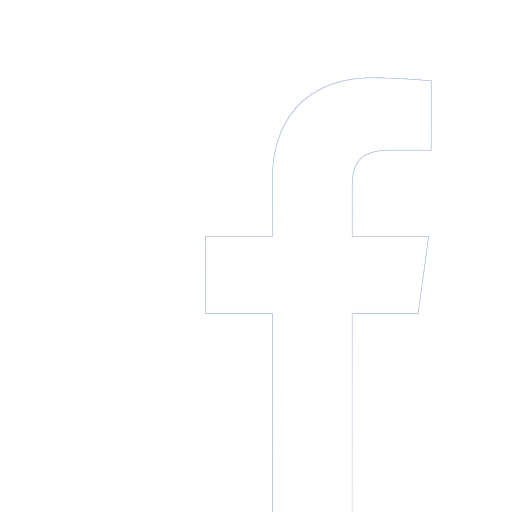
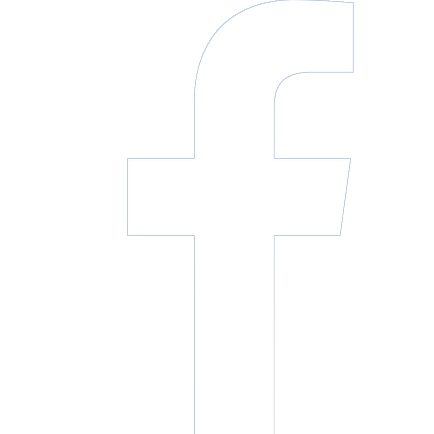
Picture and stuff?

diff --git a/index.html b/index.html
@@ -16,45 +16,15 @@
       <a href = "#" class="links"> SHOP </a>
       <a href= "#" class="links">ABOUT US</a>
       <a href = "#" class="links"> CONTACT </a>
+      <div class="sm">  <a href="instagram.com"> <img class="insta" src="instagram.png"> </a>
+      <img class="fb" src="facebook.png"> </div>
     </div>
   </div>
-    <div> <img class= "background" src="pic2.jpg"> </div>
-    <div id="textdiv">
-    Lorem Ipsum: usage
+  <div><img class ="background" src ="pic2.jpg"></div>
+  <div>
+      <img class= "instafeed" src="insta1.png">
+    </div>
 
-diagonal layout based on Lorem IpsumLorem ipsum is a pseudo-Latin text used in web design, typography, layout, and printing in place of English to emphasise design elements over content. It's also called placeholder (or filler) text. It's a convenient tool for mock-ups. It helps to outline the visual elements of a document or presentation, eg typography, font, or layout. Lorem ipsum is mostly a part of a Latin text by the classical author and philosopher Cicero. Its words and letters have been changed by addition or removal, so to deliberately render its content nonsensical; it's not genuine, correct, or comprehensible Latin anymore. While lorem ipsum's still resembles classical Latin, it actually has no meaning whatsoever. As Cicero's text doesn't contain the letters K, W, or Z, alien to latin, these, and others are often inserted randomly to mimic the typographic appearence of European languages, as are digraphs not to be found in the original.
-
-In a professional context it often happens that private or corporate clients corder a publication to be made and presented with the actual content still not being ready. Think of a news blog that's filled with content hourly on the day of going live. However, reviewers tend to be distracted by comprehensible content, say, a random text copied from a newspaper or the internet. The are likely to focus on the text, disregarding the layout and its elements. Besides, random text risks to be unintendedly humorous or offensive, an unacceptable risk in corporate environments. Lorem ipsum and its many variants have been employed since the early 1960ies, and quite likely since the sixteenth century.
-
-Lorem Ipsum: common examples
-
-layout based on Lorem Ipsum Most of its text is made up from sections 1.10.32–3 of Cicero's De finibus bonorum et malorum (On the Boundaries of Goods and Evils; finibus may also be translated as purposes). Neque porro quisquam est qui dolorem ipsum quia dolor sit amet, consectetur, adipisci velit is the first known version ("Neither is there anyone who loves grief itself since it is grief and thus wants to obtain it"). It was found by Richard McClintock, a philologist, director of publications at Hampden-Sydney College in Virginia; he searched for citings of consectetur in classical Latin literature, a term of remarkably low frequency in that literary corpus.
-
-Cicero famously orated against his political opponent Lucius Sergius Catilina. Occasionally the first Oration against Catiline is taken for type specimens: Quo usque tandem abutere, Catilina, patientia nostra? Quam diu etiam furor iste tuus nos eludet? (How long, O Catiline, will you abuse our patience? And for how long will that madness of yours mock us?)
-
-Cicero's version of Liber Primus (first Book), sections 1.10.32–3 (fragments included in most Lorem Ipsum variants in red):
-
-Cicero writing letters; from an early edition by Hieronymus Scotus Sed ut perspiciatis, unde omnis iste natus error sit voluptatem accusantium doloremque laudantium, totam rem aperiam eaque ipsa, quae ab illo inventore veritatis et quasi architecto beatae vitae dicta sunt, explicabo. Nemo enim ipsam voluptatem, quia voluptas sit, aspernatur aut odit aut fugit, sed quia consequuntur magni dolores eos, qui ratione voluptatem sequi nesciunt, neque porro quisquam est, qui dolorem ipsum, quia dolor sit amet, consectetur, adipisci[ng] velit, sed quia non numquam [do] eius modi tempora inci[di]dunt, ut labore et dolore magnam aliquam quaerat voluptatem. Ut enim ad minima veniam, quis nostrum exercitationem ullam corporis suscipit laboriosam, nisi ut aliquid ex ea commodi consequatur? Quis autem vel eum iure reprehenderit, qui in ea voluptate velit esse, quam nihil molestiae consequatur, vel illum, qui dolorem eum fugiat, quo voluptas nulla pariatur?
-
-Lorem Ipsum: translation
-
-The Latin scholar H. Rackham translated the above in 1914:
-
-De Finibus Bonorum Et Malorum But I must explain to you how all this mistaken idea of denouncing pleasure and praising pain was born and I will give you a complete account of the system, and expound the actual teachings of the great explorer of the truth, the master-builder of human happiness. No one rejects, dislikes, or avoids pleasure itself, because it is pleasure, but because those who do not know how to pursue pleasure rationally encounter consequences that are extremely painful. Nor again is there anyone who loves or pursues or desires to obtain pain of itself, because it is pain, but occasionally circumstances occur in which toil and pain can procure him some great pleasure. To take a trivial example, which of us ever undertakes laborious physical exercise, except to obtain some advantage from it? But who has any right to find fault with a man who chooses to enjoy a pleasure that has no annoying consequences, or one who avoids a pain that produces no resultant pleasure?
-
-On the other hand, we denounce with righteous indignation and dislike men who are so beguiled and demoralized by the charms of pleasure of the moment, so blinded by desire, that they cannot foresee the pain and trouble that are bound to ensue; and equal blame belongs to those who fail in their duty through weakness of will, which is the same as saying through shrinking from toil and pain. These cases are perfectly simple and easy to distinguish. In a free hour, when our power of choice is untrammelled and when nothing prevents our being able to do what we like best, every pleasure is to be welcomed and every pain avoided. But in certain circumstances and owing to the claims of duty or the obligations of business it will frequently occur that pleasures have to be repudiated and annoyances accepted. The wise man therefore always holds in these matters to this principle of selection: he rejects pleasures to secure other greater pleasures, or else he endures pains to avoid worse pains.
-
-Lorem Ipsum: variants and technical information
-
-Adobe Fireworks Lorem Ipsum plugin In 1985 Aldus Corporation launched its first desktop publishing program Aldus PageMaker for Apple Macintosh computers, released in 1987 for PCs running Windows 1.0. Both contained the variant lorem ipsum most common today. Laura Perry, then art director with Aldus, modified prior versions of Lorem Ipsum text from typographical specimens; in the 1960s and 1970s it appeared often in lettering catalogs by Letraset. Anecdotal evidence has it that Letraset used Lorem ipsum already from 1970 onwards, eg. for grids (page layouts) for ad agencies. Many early desktop publishing programs, eg. Adobe PageMaker, used it to create template.
-
-Most text editors like MS Word or Lotus Notes generate random lorem text when needed, either as pre-installed module or plug-in to be added. Word selection or sequence don't necessarily match the original, which is intended to add variety. Presentation software like Keynote or Pages use it as a samples for screenplay layout. Content management software as Joomla, Drupal, Mambo, PHP-Nuke, WordPress, or Movable Type offer Lorem Ipsum plug-ins with the same functionality.
-
-ipsum and its many variants have been employed since the early 1960ies, and quite likely since the sixteenth century. Lorem Ipsum: common examples layout based on Lorem Ipsum Most of its text is made up from sections 1.10.32–3 of Cicero's De finibus bonorum et malorum (On the Boundaries of Goods and Evils; finibus may also be translated as purposes). Neque porro quisquam est qui dolorem ipsum quia dolor sit amet, consectetur, adipisci velit is the first known version ("Neither is there anyone who loves grief itself since it is grief and thus wants to obtain it"). It was found by Richard McClintock, a philologist, director of publications at Hampden-Sydney College in Virginia; he searched for citings of consectetur in classical Latin literature, a term of remarkably low frequency in that literary corpus. Cicero famously orated against his political opponent Lucius Sergius Catilina. Occasionally the first Oration against Catiline is taken for type specimens: Quo usque tandem abutere, Catilina, patientia nostra? Quam diu etiam furor iste tuus nos eludet? (How long, O Catiline, will you abuse our patience? And for how long will that madness of yours mock us?) Cicero's version of Liber Primus (first Book), sections 1.10.32–3 (fragments included in most Lorem Ipsum variants in red): Cicero writing letters; from an early edition by Hieronymus Scotus Sed ut perspiciatis, unde omnis iste natus error sit voluptatem accusantium doloremque laudantium, totam rem aperiam eaque ipsa, quae ab illo inventore veritatis et quasi architecto beatae vitae dicta sunt, explicabo. Nemo enim ipsam voluptatem, quia voluptas sit, aspernatur aut odit aut fugit, sed quia consequuntur magni dolores eos, qui ratione voluptatem sequi nesciunt, neque porro quisquam est, qui dolorem ipsum, quia dolor sit amet, consectetur, adipisci[ng] velit, sed quia non numquam [do] eius modi tempora inci[di]dunt, ut labore et dolore magnam aliquam quaerat voluptatem. Ut enim ad minima veniam, quis nostrum exercitationem ullam corporis suscipit laboriosam, nisi ut aliquid ex ea commodi consequatur? Quis autem vel eum iure reprehenderit, qui in ea voluptate velit esse, quam nihil molestiae consequatur, vel illum, qui dolorem eum fugiat, quo voluptas nulla pariatur? Lorem Ipsum: translation The Latin scholar H. Rackham translated the above in 1914: De Finibus Bonorum Et Malorum But I must explain to you how all this mistaken idea of denouncing pleasure and praising pain was born and I will give you a complete account of the system, and expound the actual teachings of the great explorer of the truth, the master-builder of human happiness. No one rejects, dislikes, or avoids pleasure itself, because it is pleasure, but because those who do not know how to pursue pleasure rationally encounter consequences that are extremely painful. Nor again is there anyone who loves or pursues or desires to obtain pain of itself, because it is pain, but occasionally circumstances occur in which toil and pain can procure him some great pleasure. To take a trivial example, which of us ever undertakes laborious physical exercise, except to obtain some advantage from it? But who has any right to find fault with a man who chooses to enjoy a pleasure that has no annoying consequences, or one who avoids a pain that produces no resultant pleasure? On the other hand, we denounce with righteous indignation and dislike men who are so beguiled and demoralized by the charms of pleasure of the moment, so blinded by desire, that they cannot foresee the pain and trouble that are bound to ensue; and equal blame belongs to those who fail in their duty through weakness of will, which is the same as saying through shrinking from toil and pain. These cases are perfectly simple and easy to distinguish. In a free hour, when our power of choice is untrammelled and when nothing prevents our being able to do what we like best, every pleasure is to be welcomed and every pain avoided. But in certain circumstances and owing to the claims of duty or the obligations of business it will frequently occur that pleasures have to be repudiated and annoyances accepted. The wise man therefore always holds in these matters to this principle of selection: he rejects pleasures to secure other greater pleasures, or else he endures pains to avoid worse pains. Lorem Ipsum: variants and technical information Adobe Fireworks Lorem Ipsum plugin In 1985 Aldus Corporation launched its first desktop publishing program Aldus PageMaker for Apple Macintosh computers, released in 1987 for PCs running Windows 1.0. Both contained the variant lorem ipsum most common today. Laura Perry, then art director with Aldus, modified prior versions of Lorem Ipsum text from typographical specimens; in the 1960s and 1970s it appeared often in lettering catalogs by Letraset. Anecdotal evidence has it that Letraset used Lorem ipsum already from 1970 onwards, eg. for grids (page layouts) for ad agencies. Many early desktop publishing programs, eg. Adobe PageMaker, used it to create template. Most text editors like MS Word or Lotus Notes generate random lorem text when needed, either as pre-installed module or plug-in to be added. Word selection or sequence don't necessarily match the original, which is intended to add variety. Presentation software like Keynote or Pages use it as a samples for screenplay layout. Content management software as Joomla, Drupal, Mambo, PHP-Nuke, WordPress, or Movable Type offer Lorem Ipsum plug-ins with the same functionality.
-
-ipsum and its many variants have been employed since the early 1960ies, and quite likely since the sixteenth century. Lorem Ipsum: common examples layout based on Lorem Ipsum Most of its text is made up from sections 1.10.32–3 of Cicero's De finibus bonorum et malorum (On the Boundaries of Goods and Evils; finibus may also be translated as purposes). Neque porro quisquam est qui dolorem ipsum quia dolor sit amet, consectetur, adipisci velit is the first known version ("Neither is there anyone who loves grief itself since it is grief and thus wants to obtain it"). It was found by Richard McClintock, a philologist, director of publications at Hampden-Sydney College in Virginia; he searched for citings of consectetur in classical Latin literature, a term of remarkably low frequency in that literary corpus. Cicero famously orated against his political opponent Lucius Sergius Catilina. Occasionally the first Oration against Catiline is taken for type specimens: Quo usque tandem abutere, Catilina, patientia nostra? Quam diu etiam furor iste tuus nos eludet? (How long, O Catiline, will you abuse our patience? And for how long will that madness of yours mock us?) Cicero's version of Liber Primus (first Book), sections 1.10.32–3 (fragments included in most Lorem Ipsum variants in red): Cicero writing letters; from an early edition by Hieronymus Scotus Sed ut perspiciatis, unde omnis iste natus error sit voluptatem accusantium doloremque laudantium, totam rem aperiam eaque ipsa, quae ab illo inventore veritatis et quasi architecto beatae vitae dicta sunt, explicabo. Nemo enim ipsam voluptatem, quia voluptas sit, aspernatur aut odit aut fugit, sed quia consequuntur magni dolores eos, qui ratione voluptatem sequi nesciunt, neque porro quisquam est, qui dolorem ipsum, quia dolor sit amet, consectetur, adipisci[ng] velit, sed quia non numquam [do] eius modi tempora inci[di]dunt, ut labore et dolore magnam aliquam quaerat voluptatem. Ut enim ad minima veniam, quis nostrum exercitationem ullam corporis suscipit laboriosam, nisi ut aliquid ex ea commodi consequatur? Quis autem vel eum iure reprehenderit, qui in ea voluptate velit esse, quam nihil molestiae consequatur, vel illum, qui dolorem eum fugiat, quo voluptas nulla pariatur? Lorem Ipsum: translation The Latin scholar H. Rackham translated the above in 1914: De Finibus Bonorum Et Malorum But I must explain to you how all this mistaken idea of denouncing pleasure and praising pain was born and I will give you a complete account of the system, and expound the actual teachings of the great explorer of the truth, the master-builder of human happiness. No one rejects, dislikes, or avoids pleasure itself, because it is pleasure, but because those who do not know how to pursue pleasure rationally encounter consequences that are extremely painful. Nor again is there anyone who loves or pursues or desires to obtain pain of itself, because it is pain, but occasionally circumstances occur in which toil and pain can procure him some great pleasure. To take a trivial example, which of us ever undertakes laborious physical exercise, except to obtain some advantage from it? But who has any right to find fault with a man who chooses to enjoy a pleasure that has no annoying consequences, or one who avoids a pain that produces no resultant pleasure? On the other hand, we denounce with righteous indignation and dislike men who are so beguiled and demoralized by the charms of pleasure of the moment, so blinded by desire, that they cannot foresee the pain and trouble that are bound to ensue; and equal blame belongs to those who fail in their duty through weakness of will, which is the same as saying through shrinking from toil and pain. These cases are perfectly simple and easy to distinguish. In a free hour, when our power of choice is untrammelled and when nothing prevents our being able to do what we like best, every pleasure is to be welcomed and every pain avoided. But in certain circumstances and owing to the claims of duty or the obligations of business it will frequently occur that pleasures have to be repudiated and annoyances accepted. The wise man therefore always holds in these matters to this principle of selection: he rejects pleasures to secure other greater pleasures, or else he endures pains to avoid worse pains. Lorem Ipsum: variants and technical information Adobe Fireworks Lorem Ipsum plugin In 1985 Aldus Corporation launched its first desktop publishing program Aldus PageMaker for Apple Macintosh computers, released in 1987 for PCs running Windows 1.0. Both contained the variant lorem ipsum most common today. Laura Perry, then art director with Aldus, modified prior versions of Lorem Ipsum text from typographical specimens; in the 1960s and 1970s it appeared often in lettering catalogs by Letraset. Anecdotal evidence has it that Letraset used Lorem ipsum already from 1970 onwards, eg. for grids (page layouts) for ad agencies. Many early desktop publishing programs, eg. Adobe PageMaker, used it to create template. Most text editors like MS Word or Lotus Notes generate random lorem text when needed, either as pre-installed module or plug-in to be added. Word selection or sequence don't necessarily match the original, which is intended to add variety. Presentation software like Keynote or Pages use it as a samples for screenplay layout. Content management software as Joomla, Drupal, Mambo, PHP-Nuke, WordPress, or Movable Type offer Lorem Ipsum plug-ins with the same functionality.
-
-ipsum and its many variants have been employed since the early 1960ies, and quite likely since the sixteenth century. Lorem Ipsum: common examples layout based on Lorem Ipsum Most of its text is made up from sections 1.10.32–3 of Cicero's De finibus bonorum et malorum (On the Boundaries of Goods and Evils; finibus may also be translated as purposes). Neque porro quisquam est qui dolorem ipsum quia dolor sit amet, consectetur, adipisci velit is the first known version ("Neither is there anyone who loves grief itself since it is grief and thus wants to obtain it"). It was found by Richard McClintock, a philologist, director of publications at Hampden-Sydney College in Virginia; he searched for citings of consectetur in classical Latin literature, a term of remarkably low frequency in that literary corpus. Cicero famously orated against his political opponent Lucius Sergius Catilina. Occasionally the first Oration against Catiline is taken for type specimens: Quo usque tandem abutere, Catilina, patientia nostra? Quam diu etiam furor iste tuus nos eludet? (How long, O Catiline, will you abuse our patience? And for how long will that madness of yours mock us?) Cicero's version of Liber Primus (first Book), sections 1.10.32–3 (fragments included in most Lorem Ipsum variants in red): Cicero writing letters; from an early edition by Hieronymus Scotus Sed ut perspiciatis, unde omnis iste natus error sit voluptatem accusantium doloremque laudantium, totam rem aperiam eaque ipsa, quae ab illo inventore veritatis et quasi architecto beatae vitae dicta sunt, explicabo. Nemo enim ipsam voluptatem, quia voluptas sit, aspernatur aut odit aut fugit, sed quia consequuntur magni dolores eos, qui ratione voluptatem sequi nesciunt, neque porro quisquam est, qui dolorem ipsum, quia dolor sit amet, consectetur, adipisci[ng] velit, sed quia non numquam [do] eius modi tempora inci[di]dunt, ut labore et dolore magnam aliquam quaerat voluptatem. Ut enim ad minima veniam, quis nostrum exercitationem ullam corporis suscipit laboriosam, nisi ut aliquid ex ea commodi consequatur? Quis autem vel eum iure reprehenderit, qui in ea voluptate velit esse, quam nihil molestiae consequatur, vel illum, qui dolorem eum fugiat, quo voluptas nulla pariatur? Lorem Ipsum: translation The Latin scholar H. Rackham translated the above in 1914: De Finibus Bonorum Et Malorum But I must explain to you how all this mistaken idea of denouncing pleasure and praising pain was born and I will give you a complete account of the system, and expound the actual teachings of the great explorer of the truth, the master-builder of human happiness. No one rejects, dislikes, or avoids pleasure itself, because it is pleasure, but because those who do not know how to pursue pleasure rationally encounter consequences that are extremely painful. Nor again is there anyone who loves or pursues or desires to obtain pain of itself, because it is pain, but occasionally circumstances occur in which toil and pain can procure him some great pleasure. To take a trivial example, which of us ever undertakes laborious physical exercise, except to obtain some advantage from it? But who has any right to find fault with a man who chooses to enjoy a pleasure that has no annoying consequences, or one who avoids a pain that produces no resultant pleasure? On the other hand, we denounce with righteous indignation and dislike men who are so beguiled and demoralized by the charms of pleasure of the moment, so blinded by desire, that they cannot foresee the pain and trouble that are bound to ensue; and equal blame belongs to those who fail in their duty through weakness of will, which is the same as saying through shrinking from toil and pain. These cases are perfectly simple and easy to distinguish. In a free hour, when our power of choice is untrammelled and when nothing prevents our being able to do what we like best, every pleasure is to be welcomed and every pain avoided. But in certain circumstances and owing to the claims of duty or the obligations of business it will frequently occur that pleasures have to be repudiated and annoyances accepted. The wise man therefore always holds in these matters to this principle of selection: he rejects pleasures to secure other greater pleasures, or else he endures pains to avoid worse pains. Lorem Ipsum: variants and technical information Adobe Fireworks Lorem Ipsum plugin In 1985 Aldus Corporation launched its first desktop publishing program Aldus PageMaker for Apple Macintosh computers, released in 1987 for PCs running Windows 1.0. Both contained the variant lorem ipsum most common today. Laura Perry, then art director with Aldus, modified prior versions of Lorem Ipsum text from typographical specimens; in the 1960s and 1970s it appeared often in lettering catalogs by Letraset. Anecdotal evidence has it that Letraset used Lorem ipsum already from 1970 onwards, eg. for grids (page layouts) for ad agencies. Many early desktop publishing programs, eg. Adobe PageMaker, used it to create template. Most text editors like MS Word or Lotus Notes generate random lorem text when needed, either as pre-installed module or plug-in to be added. Word selection or sequence don't necessarily match the original, which is intended to add variety. Presentation software like Keynote or Pages use it as a samples for screenplay layout. Content management software as Joomla, Drupal, Mambo, PHP-Nuke, WordPress, or Movable Type offer Lorem Ipsum plug-ins with the same functionality.
 
 </div>
 </body>

diff --git a/index.css b/index.css
@@ -3,6 +3,8 @@ body {
   margin-right: 0px;
   margin-bottom: 0px;
   margin-left: 0px;
+
+
 }
 
 .navbar {
@@ -10,6 +12,41 @@ body {
   height: 150px;
   display: flex;
   align-items: center;
+}
+
+.insta {
+  height: 30px;
+  width: 30px;
+  position: absolute;
+  right: 0;
+  padding-right: 15px;
+}
+
+.sm {
+  align-items: center;
+  padding-bottom: 30px;
+}
+
+.instahover:hover {
+  filter: invert(100%);
+}
+
+.instafeed {
+  height: 500px;
+  width: 500px;
+}
+
+.instahover:hover img {
+  -webkit-filter: invert(1) !important;
+  filter: invert(100%);
+}
+
+.fb {
+  height: 30px;
+  width: 30px;
+  position: absolute;
+  right: 0;
+  padding-right: 55px
 }
 
 .top {
